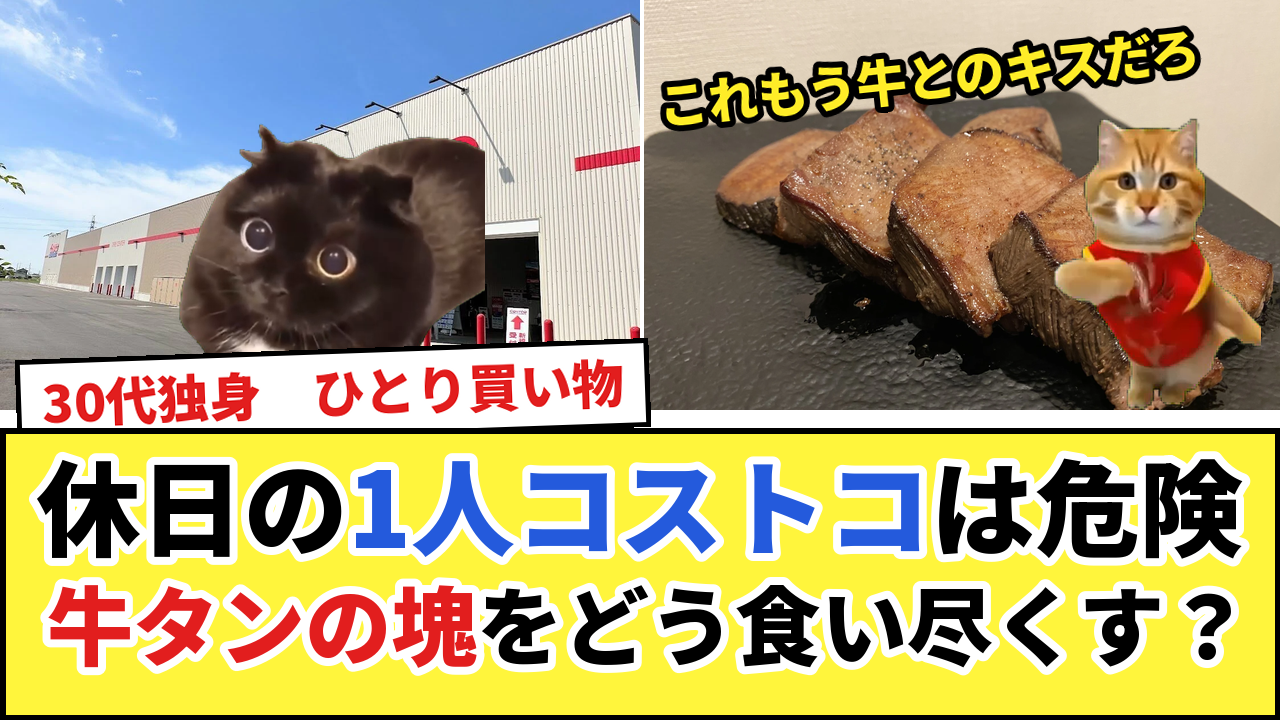
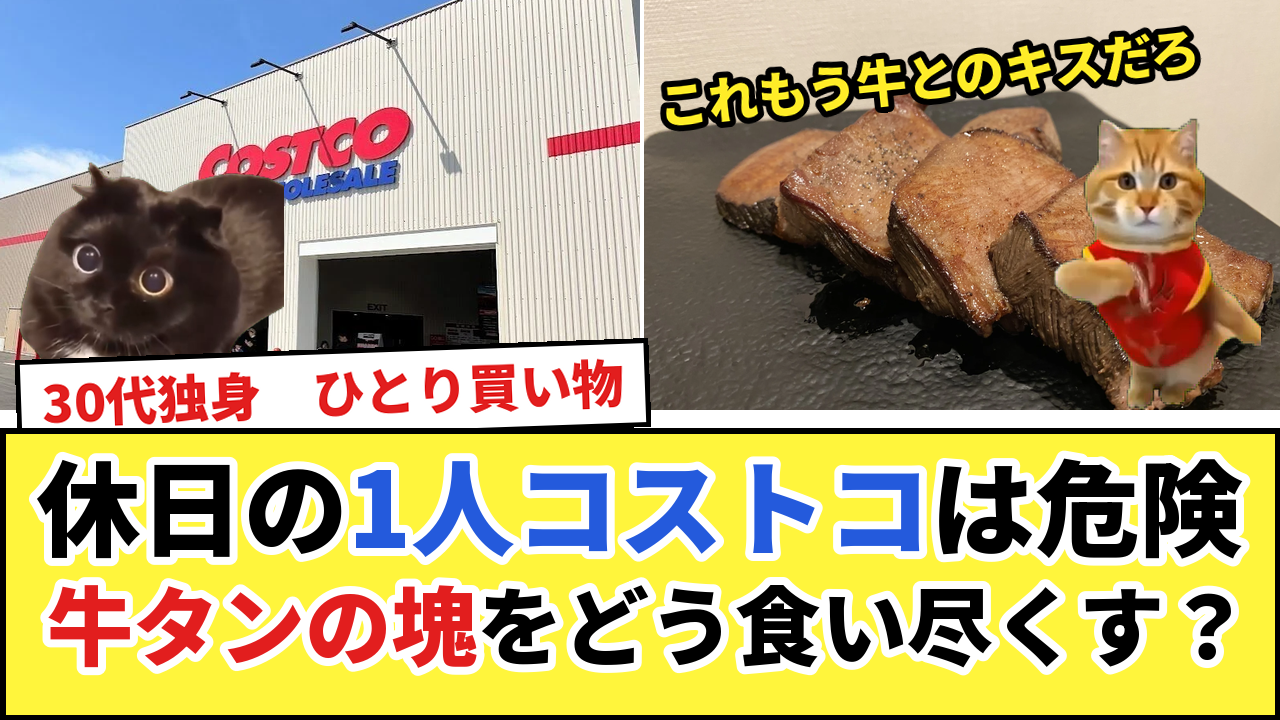
コストコ：サムネ左を外観に（看板が見えるように）
Claude-Session: https://claude.ai/code/session_011g9CsrfFD5YswfNSvNDW39

Changed region(s): [[0.0, 0.0, 0.5, 0.5194]]

diff --git a/catmeme/make_thumb_costco.py b/catmeme/make_thumb_costco.py
@@ -18,7 +18,7 @@ NAME = "jidaraku_09_costco_thumb_a.png"
 
 
 def left_photo():
-    for n in ("c02_front", "c03_entrance"):   # 外観の写真が届いたら c02_front を優先
+    for n in ("c02_front_thumb", "c02_front", "c03_entrance"):   # 外観の写真が届いたら c02_front を優先
         try:
             S.bg_path(n) if hasattr(S, "bg_path") else None
             T.fill_photo(n, 10, 10)
@@ -29,7 +29,7 @@ def left_photo():
 
 def main():
     T.type_a(NAME, left_photo(), "f_gyutan_yaki",
-             ("surprise_big_pupils_cat", 1.0, 330, 410, 300, False),
+             ("surprise_big_pupils_cat", 1.0, 150, 410, 260, False),
              [("excited_hodomoe_city_cat", 1.0, 1150, 410, 300, False)],
              "30代独身　ひとり買い物",
              [("休日の", BK), ("1人コストコ", T.BLUE), ("は危険", BK)],
